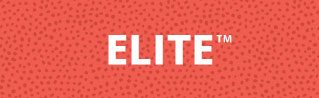
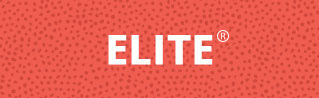
updating trademarks

Changed region(s): [[0.6771, 0.3061, 0.7335, 0.4592]]

diff --git a/src/components/HeaderNavMobile.js b/src/components/HeaderNavMobile.js
@@ -19,25 +19,25 @@ const HeaderNavMobile = ({ classes, className, onMenuClose }) => {
             <li className={classes.listItem}>Elevate At-A-Glance</li>
           </Link>
           <Link className={classes.listItemLink} to="/socialpro">
-            <li className={classes.listItem}>Social Pro&trade;</li>
+            <li className={classes.listItem}>Social Pro&reg;</li>
           </Link>
           <Link className={classes.listItemLink} to="/ignite">
-            <li className={classes.listItem}>Ignite&trade;</li>
+            <li className={classes.listItem}>Ignite&reg;</li>
           </Link>
           <Link className={classes.listItemLink} to="/elevatedms">
-            <li className={classes.listItem}>DMS&trade;</li>
+            <li className={classes.listItem}>DMS&reg;</li>
           </Link>
           <Link className={classes.listItemLink} to="/dmsplus">
-            <li className={classes.listItem}>DMS Plus&trade;</li>
+            <li className={classes.listItem}>DMS Plus&reg;</li>
           </Link>
           <Link className={classes.listItemLink} to="/elite">
-            <li className={classes.listItem}>Elite&trade;</li>
+            <li className={classes.listItem}>Elite&reg;</li>
           </Link>
           <Link className={classes.listItemLink} to="/elitepro">
             <li className={classes.listItem}>Elite Pro&trade;</li>
           </Link>
           <Link className={classes.listItemLink} to="/boss">
-            <li className={classes.listItem}>BOSS&trade;</li>
+            <li className={classes.listItem}>BOSS&reg;</li>
           </Link>
           <Link className={classes.listItemLink} to="/compare_products">
             <li className={classes.listItem}>Compare Products</li>

diff --git a/src/components/HeaderNavDesktop.js b/src/components/HeaderNavDesktop.js
@@ -17,25 +17,25 @@ const HeaderNavDesktop = ({ classes, className }) => {
             <li className={classes.listItem}>Elevate At-A-Glance</li>
           </Link>
           <Link className={classes.listItemLink} to="/socialpro">
-            <li className={classes.listItem}>Social Pro&trade;</li>
+            <li className={classes.listItem}>Social Pro&reg;</li>
           </Link>
           <Link className={classes.listItemLink} to="/ignite">
-            <li className={classes.listItem}>Ignite&trade;</li>
+            <li className={classes.listItem}>Ignite&reg;</li>
           </Link>
           <Link className={classes.listItemLink} to="/elevatedms">
-            <li className={classes.listItem}>DMS&trade;</li>
+            <li className={classes.listItem}>DMS&reg;</li>
           </Link>
           <Link className={classes.listItemLink} to="/dmsplus">
-            <li className={classes.listItem}>DMS Plus&trade;</li>
+            <li className={classes.listItem}>DMS Plus&reg;</li>
           </Link>
           <Link className={classes.listItemLink} to="/elite">
-            <li className={classes.listItem}>Elite&trade;</li>
+            <li className={classes.listItem}>Elite&reg;</li>
           </Link>
           <Link className={classes.listItemLink} to="/elitepro">
             <li className={classes.listItem}>Elite Pro&trade;</li>
           </Link>
           <Link className={classes.listItemLink} to="/boss">
-            <li className={classes.listItem}>BOSS&trade;</li>
+            <li className={classes.listItem}>BOSS&reg;</li>
           </Link>
           <Link className={classes.listItemLink} to="/compare_products">
             <li className={classes.listItem}>Compare Products</li>

diff --git a/src/pages/webinars.js b/src/pages/webinars.js
@@ -77,9 +77,9 @@ const Webinars = ({ classes, data }) => {
 
                   <div className={classes.column2} style={{ textAlign: "center", paddingTop: "22px" }}>
                  
-                                    <div className={classes.subheading} >Elevate CRM&trade;</div>
+                                    <div className={classes.subheading} >Elevate CRM&reg;</div>
                                     <div className={classes.subtext}>Enjoy a step-by-step overview of your<br />
-                                    Elevate CRM&trade;. We’ll cover lead management,<br />
+                                    Elevate CRM&reg;. We’ll cover lead management,<br />
                                     managing your website, creating email<br />
                                     campaigns, social media, CMA’s,<br />
                                     analytics and much, much more.
@@ -130,7 +130,7 @@ const Webinars = ({ classes, data }) => {
 
                                     <div className={classes.subheading} >Elevate Email Campaigns</div>
                                     <div className={classes.subtext}>Join us as we introduce you to the email marketing
-                                    system within your Elevate CRM. This training includes a platform overview
+                                    system within your Elevate CRM&reg;. This training includes a platform overview
                                     of features for engaging your sphere, tips for staying top of mind,
                                     and best practices for providing valuable content
                                     to nurture your leads. Live Q&amp;A throughout.

diff --git a/src/pages/testimonials.js b/src/pages/testimonials.js
@@ -163,7 +163,7 @@ const Testimonials = ({ children, classes, data, tags }) => {
                                 Cafe Realty<br />
                                 Hudson Valley, NY<br /><br />
 
-                                Elisa Bruno-Midili of Cafe Realty shares the story of how Elevate BOSS&trade; has empowered her to compete with big box affiliations in the Hudson Valley region of New York State.  Tune in for a discussion of how metropolitan city-dwellers are exiting New York City and heading to the country, and how Elisa has been able to position herself, her agents and her brokerage to capture, nurture and convert all of the business heading their way thanks to Elevate’s comprehensive brokerage solution, Elevate BOSS&trade;.  After 7-years of searching, Elisa has FINALLY found the ONE solution that does it all!
+                                Elisa Bruno-Midili of Cafe Realty shares the story of how Elevate BOSS&reg; has empowered her to compete with big box affiliations in the Hudson Valley region of New York State.  Tune in for a discussion of how metropolitan city-dwellers are exiting New York City and heading to the country, and how Elisa has been able to position herself, her agents and her brokerage to capture, nurture and convert all of the business heading their way thanks to Elevate’s comprehensive brokerage solution, Elevate BOSS&reg;.  After 7-years of searching, Elisa has FINALLY found the ONE solution that does it all!
                             </div>
                     
                 </div>

diff --git a/src/components/Footer.js b/src/components/Footer.js
@@ -175,25 +175,25 @@ const Footer = ({ classes }) => (
             Elevate At-A-Glance
           </Link>
           <Link className={classes.link} to="/socialpro">
-            Social Pro&trade;
+            Social Pro&reg;
           </Link>
           <Link className={classes.link} to="/ignite">
-            Ignite&trade;
+            Ignite&reg;
           </Link>
           <Link className={classes.link} to="/elevatedms">
-            DMS&trade;
+            DMS&reg;
           </Link>
           <Link className={classes.link} to="/dmsplus">
-            DMS PLUS&trade;
+            DMS PLUS&reg;
           </Link>
           <Link className={classes.link} to="/elite">
-            Elite&trade;
+            Elite&reg;
           </Link>
           <Link className={classes.link} to="/elitepro">
             Elite Pro&trade;
           </Link>
           <Link className={classes.link} to="/boss">
-            BOSS&trade;
+            BOSS&reg;
           </Link>
           <Link className={classes.link} to="/compare_products">
             Compare Products

diff --git a/src/pages/boss.js b/src/pages/boss.js
@@ -229,7 +229,7 @@ databases</div>
                 <div className={classes.flexItem2} style={{padding:"30px", textAlign:"center"}}>
                         <img src={Quote} width="80" style={{paddingBottom:"15px"}}/>
                       <div className={classes.subtext}>
-                      “Elevate BOSS has helped<br />
+                      “Elevate BOSS&reg; has helped<br />
                       my independent office<br />
                       compete against the<br />
                       big box brands.”
